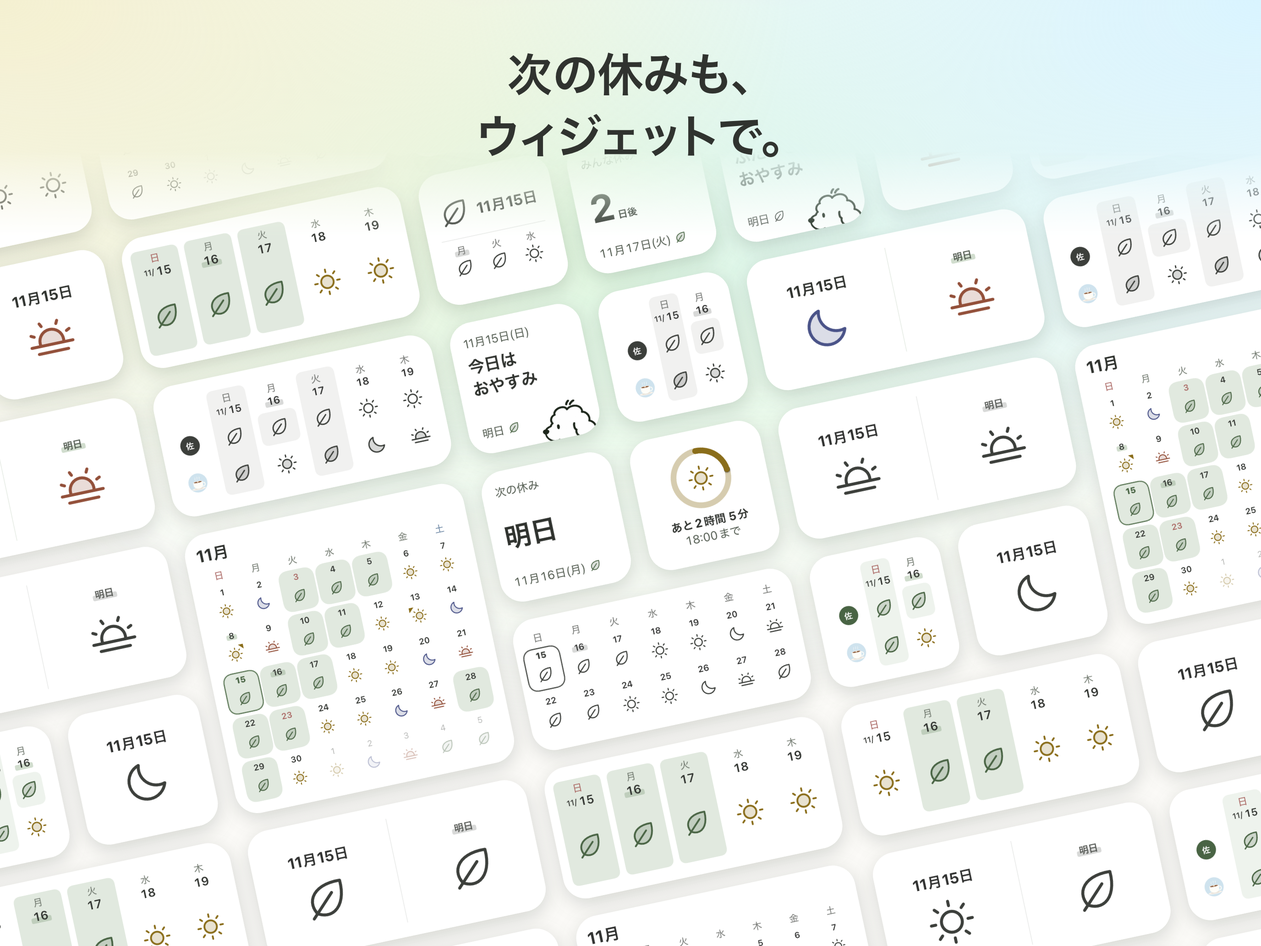
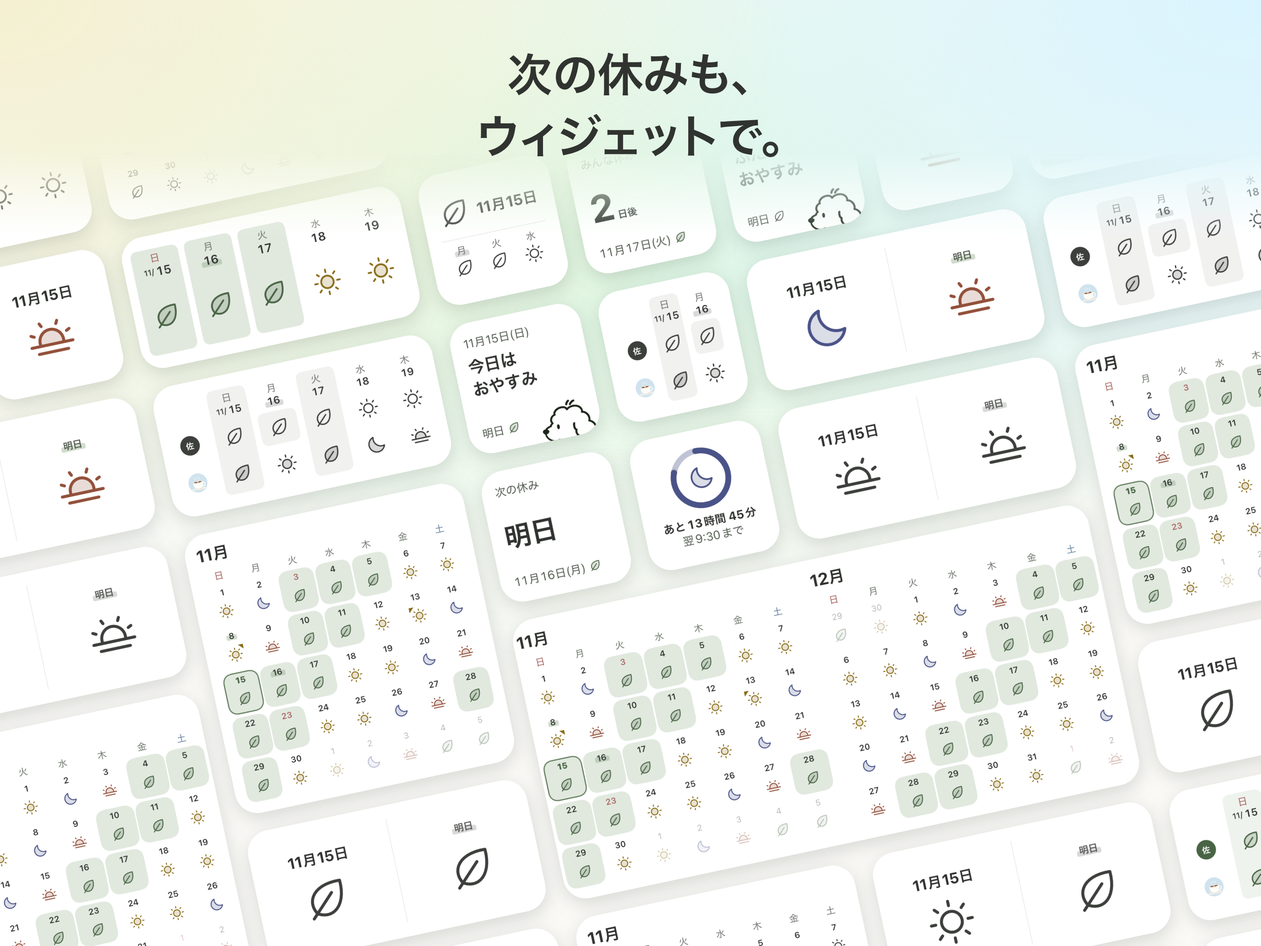
Tablet pictures: the iPad's extra large calendar on its wall, shot 1 with the pane's detail
The wall's widgets are now a store's: its own (`STORES[store].wall`)
over the shared wall's, those it lies over left out. An iPad's is
カレンダー's extra large (#1246), this month and the next, under the
widgets marked whole; the tests hold every store's wall to its grid,
its whole widgets and no picture beside itself across its copies.

The iPad's capture reads the extra large size, which iPadOS's gallery
alone leaves unnamed (#1251). Shot 1 on both tablets is photographed
again with the wide pane keeping the day's detail (#1250).

Changed region(s): [[0.4062, 0.5581, 0.875, 0.9302], [0.0, 0.7752, 0.1875, 1.0], [0.5312, 0.4651, 0.5938, 0.5891]]

diff --git a/apps/design/tests/store-screenshots.test.ts b/apps/design/tests/store-screenshots.test.ts
@@ -20,6 +20,7 @@ import {
   wallCornersOf,
   wallLieOf,
   wallOf,
+  wallPlacesOf,
 } from "@pochical/prototype/lib/store-shots";
 import type {
   Rect,
@@ -286,26 +287,28 @@ test("a callout's card leaves what is over its part in sight, and the phone's fo
   );
 });
 
-const tiles = wallOf(WALL_SHOT.tiles);
-
 // Which widgets there are to place is the captures' to say: the script
 // fails a wall whose widget is not among those photographed.
-test("the wall covers its grid, each widget in one of its looks", () => {
-  const cells = tiles.flatMap(({ column, columns, row, rows }) =>
-    Array.from(
-      { length: columns * rows },
-      (_, cell) =>
-        `${column + (cell % columns)} ${row + Math.floor(cell / columns)}`
-    )
-  );
-  expect(new Set(cells).size).toBe(cells.length);
-  expect(cells).toHaveLength(WALL.columns * WALL.rows);
-  for (const { column, columns, look, row, rows } of tiles) {
-    expect(look).toBeLessThan(WALL_SHOT.raw.length);
-    expect(column + columns).toBeLessThanOrEqual(WALL.columns);
-    expect(row + rows).toBeLessThanOrEqual(WALL.rows);
+test.each(storeIds)(
+  "%s's wall covers its grid, each widget in one of its looks",
+  (store) => {
+    const tiles = wallOf(wallPlacesOf(store));
+    const cells = tiles.flatMap(({ column, columns, row, rows }) =>
+      Array.from(
+        { length: columns * rows },
+        (_, cell) =>
+          `${column + (cell % columns)} ${row + Math.floor(cell / columns)}`
+      )
+    );
+    expect(new Set(cells).size).toBe(cells.length);
+    expect(cells).toHaveLength(WALL.columns * WALL.rows);
+    for (const { column, columns, look, row, rows } of tiles) {
+      expect(look).toBeLessThan(WALL_SHOT.raw.length);
+      expect(column + columns).toBeLessThanOrEqual(WALL.columns);
+      expect(row + rows).toBeLessThanOrEqual(WALL.rows);
+    }
   }
-});
+);
 
 // How many cells lie between two tiles: none for two side by side or
 // corner to corner.
@@ -317,40 +320,48 @@ const between = (a: WallTile, b: WallTile): number =>
     b.row - a.row - a.rows
   );
 
-test("no picture on the wall is beside itself, even corner to corner", () => {
-  for (const tile of tiles) {
-    for (const other of tiles) {
-      if (
-        other !== tile &&
-        other.file === tile.file &&
-        other.look === tile.look
-      ) {
-        expect(
-          between(tile, other),
-          `${tile.file} at ${tile.column}, ${tile.row}`
-        ).toBeGreaterThan(0);
+test.each(storeIds)(
+  "no picture on %s's wall is beside itself, even corner to corner, nor beside the next copy's",
+  (store) => {
+    const tiles = wallOf(wallPlacesOf(store), 3);
+    for (const tile of tiles) {
+      for (const other of tiles) {
+        if (
+          other !== tile &&
+          other.file === tile.file &&
+          other.look === tile.look
+        ) {
+          expect(
+            between(tile, other),
+            `${tile.file} at ${tile.column}, ${tile.row}`
+          ).toBeGreaterThan(0);
+        }
       }
     }
   }
-});
-
-// The widgets marked whole, where the eye lands first.
-const whole = WALL_SHOT.tiles.flatMap((place, index) =>
-  "whole" in place ? [index] : []
 );
 
+// The widgets marked whole on a store's wall, where the eye lands first.
+const wholeOf = (store: StoreId) =>
+  wallPlacesOf(store).flatMap((place, index) =>
+    "whole" in place ? [index] : []
+  );
+
 test("the widgets marked whole show whole in every store's picture, clear of the fade under its headline", () => {
-  expect(whole.map((index) => tiles[index]?.file)).toEqual([
-    "next-off-small.png",
-    "next-off-day-small.png",
-    "now-small.png",
-  ]);
-  for (const { height, widgetRow, width } of Object.values(STORES)) {
+  for (const store of storeIds) {
+    const { height, widgetRow, width } = STORES[store];
+    const places = wallPlacesOf(store);
+    const whole = wholeOf(store);
+    expect(whole.map((index) => places[index]?.file)).toEqual([
+      "next-off-small.png",
+      "next-off-day-small.png",
+      "now-small.png",
+    ]);
     // The wall side by side as often as covers the picture, the widgets
     // marked whole those of the copy in its middle.
     const lie = wallLieOf({ height, width });
-    const placed = wallOf(WALL_SHOT.tiles, lie.across);
-    const middle = ((lie.across - 1) / 2) * WALL_SHOT.tiles.length;
+    const placed = wallOf(places, lie.across);
+    const middle = ((lie.across - 1) / 2) * places.length;
     const corners = whole.flatMap((index) => {
       const tile = placed[middle + index];
       return tile ? wallCornersOf(tile, widgetRow, lie) : [];
@@ -408,10 +419,11 @@ test.each([...pictures])(
       ((across - clearing.middle[0]) / clearing.across) ** 2 +
         ((down - clearing.middle[1]) / clearing.down) ** 2 <
         1;
-    const placed = wallOf(WALL_SHOT.tiles, lie.across);
+    const places = wallPlacesOf(picture.store);
+    const placed = wallOf(places, lie.across);
     const copies = Array.from({ length: lie.across }, (_, copy) =>
-      whole.map((index) => {
-        const tile = placed[copy * WALL_SHOT.tiles.length + index];
+      wholeOf(picture.store).map((index) => {
+        const tile = placed[copy * places.length + index];
         return tile
           ? wallCornersOf(tile, STORES[picture.store].widgetRow, lie)
           : [];

diff --git a/packages/prototype/src/lib/store-shots.ts b/packages/prototype/src/lib/store-shots.ts
@@ -43,6 +43,7 @@ export const STORES = {
     corner: 4.25,
     height: 1920,
     screen: { height: 2424, width: 1080 },
+    wall: [],
     widgetRow: 202 / 179,
     width: 1080,
   },
@@ -51,6 +52,7 @@ export const STORES = {
     corner: 2,
     height: 1440,
     screen: { height: 1600, width: 2560 },
+    wall: [],
     widgetRow: 202 / 179,
     width: 2560,
   },
@@ -59,6 +61,7 @@ export const STORES = {
     corner: 9,
     height: 2622,
     screen: { height: 2868, width: 1320 },
+    wall: [],
     widgetRow: 1,
     width: 1206,
   },
@@ -67,6 +70,10 @@ export const STORES = {
     corner: 3.8,
     height: 2064,
     screen: { height: 2064, width: 2752 },
+    // An iPad's カレンダー in its extra large size, this month and the
+    // next side by side, under the widgets marked whole, where the
+    // phone's wall has three medium widgets and two small ones.
+    wall: [{ column: 2, file: "calendar-extra-large.png", look: 0, row: 5 }],
     widgetRow: 1,
     width: 2752,
   },
@@ -420,8 +427,9 @@ export const storeShotFile = (name: StoreShotName): string => {
 };
 
 // The sizes a widget on the wall comes in, by the cells of a Home Screen
-// it covers across and down.
+// it covers across and down: an iPad's extra large among them.
 const WIDGET_CELLS = {
+  "extra-large": { columns: 4, rows: 2 },
   large: { columns: 2, rows: 2 },
   medium: { columns: 2, rows: 1 },
   small: { columns: 1, rows: 1 },
@@ -432,12 +440,11 @@ type WidgetSize = keyof typeof WIDGET_CELLS;
 const isWidgetSize = (value: string | undefined): value is WidgetSize =>
   value !== undefined && Object.hasOwn(WIDGET_CELLS, value);
 
-// The cells a widget covers, by its size, the last word of its file's name.
+// The cells a widget covers, by its size, the end of its file's name.
 const cellsOf = (file: string) => {
-  const size = file
-    .replace(/\.png$/u, "")
-    .split("-")
-    .at(-1);
+  const size = Object.keys(WIDGET_CELLS).find((one) =>
+    file.endsWith(`-${one}.png`)
+  );
   return WIDGET_CELLS[isWidgetSize(size) ? size : "small"];
 };
 
@@ -628,6 +635,27 @@ export type WallTile = {
   look: number;
   row: number;
   rows: number;
+};
+
+// The wall's widgets in a store's picture: the store's own (its `wall`),
+// and every one of the shared wall's that none of them is placed over.
+export const wallPlacesOf = (store: StoreId): readonly WallPlace[] => {
+  const own = wallOf(STORES[store].wall);
+  const covered = (place: WallPlace) => {
+    const { column, row } = place;
+    const { columns, rows } = cellsOf(place.file);
+    return own.some(
+      (tile) =>
+        column < tile.column + tile.columns &&
+        tile.column < column + columns &&
+        row < tile.row + tile.rows &&
+        tile.row < row + rows
+    );
+  };
+  return [
+    ...WALL_SHOT.tiles.filter((place) => !covered(place)),
+    ...STORES[store].wall,
+  ];
 };
 
 // The wall as it is placed, `across` times side by side: each widget with

diff --git a/apps/design/src/routes/_tool/[_]render/store-shot.tsx b/apps/design/src/routes/_tool/[_]render/store-shot.tsx
@@ -16,6 +16,7 @@ import {
   WALL_SHOT,
   wallLieOf,
   wallOf,
+  wallPlacesOf,
 } from "@pochical/prototype/lib/store-shots";
 import type {
   CardPicture,
@@ -267,7 +268,7 @@ function StoreShotPage() {
   if (shot === undefined) {
     return <p>No shot is named {name}.</p>;
   }
-  const { corner, height, screen, widgetRow, width } = STORES[store];
+  const { corner, height, screen, width } = STORES[store];
   const pair = `${width > height ? PAIR.side : PAIR.upright}%`;
   return (
     <div
@@ -286,7 +287,7 @@ function StoreShotPage() {
         <Wall
           lie={wallLieOf({ height, width })}
           mask={`linear-gradient(to bottom, transparent calc(var(--headline) * 0.8), black calc(var(--headline) * ${WALL_SHAPE.clear}))`}
-          row={widgetRow}
+          store={store}
         />
       )}
       <h1
@@ -613,9 +614,18 @@ function Pieces({ pieces, tall }: { pieces: readonly Piece[]; tall: number }) {
 }
 
 // The wall's widgets where they are placed, each from the folder of its
-// look, lying in the picture as `lie` says and seen through `mask`. A cell
-// is `row` times as tall as it is wide.
-function Wall({ lie, mask, row }: { lie: WallLie; mask: string; row: number }) {
+// look, lying in the picture as `lie` says and seen through `mask`: those
+// of `store`'s picture, whose cells are as tall as its Home Screen's.
+function Wall({
+  lie,
+  mask,
+  store,
+}: {
+  lie: WallLie;
+  mask: string;
+  store: StoreId;
+}) {
+  const row = STORES[store].widgetRow;
   return (
     <div className={styles.wall} style={{ maskImage: mask }}>
       <div
@@ -627,7 +637,7 @@ function Wall({ lie, mask, row }: { lie: WallLie; mask: string; row: number }) {
           top: lie.middle[1],
         }}
       >
-        {wallOf(WALL_SHOT.tiles, lie.across).map((tile) => (
+        {wallOf(wallPlacesOf(store), lie.across).map((tile) => (
           <div
             className={styles.widget}
             key={`${tile.column} ${tile.row}`}
@@ -668,7 +678,7 @@ function WallPicturePage({ picture }: { picture: WallPicture }) {
             ? "none"
             : `radial-gradient(ellipse ${clear.across}px ${clear.down}px at ${clear.middle[0]}px ${clear.middle[1]}px, transparent ${clear.whole * 100}%, black)`
         }
-        row={STORES[store].widgetRow}
+        store={store}
       />
       {line !== undefined && (
         <h1

diff --git a/apps/ios/Pochical/PochicalUITests/StoreScreenshotTests.swift b/apps/ios/Pochical/PochicalUITests/StoreScreenshotTests.swift
@@ -726,7 +726,9 @@ final class StoreScreenshotTests: XCTestCase {
     "シンプル": "simple", "これから": "upcoming", "カレンダー": "calendar", "次の休み": "next-off",
     "いまのシフト": "now",
   ]
-  private static let widgetSizes = ["小": "small", "中": "medium", "大": "large"]
+  private static let widgetSizes = [
+    "小": "small", "中": "medium", "大": "large", "特大": "extra-large",
+  ]
   /// Whom a widget can be set to, of the seed's group: its first member,
   /// and for 次の休み the group itself. Each by the word its file takes,
   /// the choice as the widget's editing lists it, under its group, and
@@ -809,13 +811,16 @@ final class StoreScreenshotTests: XCTestCase {
         XCTWaiter().wait(for: [next], timeout: 5), .completed, "the gallery turns to \(turned + 1)")
     }
     let shown = springboard.buttons
-      .matching(NSPredicate(format: "label BEGINSWITH 'ポチカル, ' AND value BEGINSWITH 'ウィジェット, '"))
+      .matching(NSPredicate(format: "label BEGINSWITH 'ポチカル, ' AND value BEGINSWITH 'ウィジェット'"))
       .allElementsBoundByIndex.first(where: \.isHittable)
-    guard let shown, let size = (shown.value as? String)?.split(separator: ", ").last else {
+    guard let shown, let value = shown.value as? String else {
       XCTFail("page \(page) shows a widget")
       return ("", "")
     }
-    return (String(shown.label.dropFirst("ポチカル, ".count)), String(size))
+    // Its size after the word, which iPadOS leaves out for the extra
+    // large alone (#1251).
+    let size = value.split(separator: ", ").dropFirst().first.map(String.init) ?? "特大"
+    return (String(shown.label.dropFirst("ポチカル, ".count)), size)
   }
 
   /// Puts the widget the gallery shows on the Home Screen, and waits for

diff --git a/apps/design/scripts/store-images.ts b/apps/design/scripts/store-images.ts
@@ -22,6 +22,7 @@ import {
   storeShotFile,
   WALL_PICTURES,
   WALL_SHOT,
+  wallPlacesOf,
 } from "@pochical/prototype/lib/store-shots";
 import type { Rect, StoreId } from "@pochical/prototype/lib/store-shots";
 import {
@@ -53,7 +54,7 @@ const findScreens = (store: StoreId, shot: (typeof STORE_SHOTS)[number]) => {
       : [];
   const wall =
     shot.kind === "wall"
-      ? shot.tiles.map(({ file, look }) =>
+      ? wallPlacesOf(store).map(({ file, look }) =>
           path.join(shot.raw[look] ?? "", file)
         )
       : [];

diff --git a/AGENTS.md b/AGENTS.md
@@ -14,7 +14,7 @@ Pochical is a monorepo: native SwiftUI (`apps/ios`) and Jetpack Compose (`apps/a
   - ライセンス's list of libraries is generated by each app's build, never checked in (spec/calendar.md, ライセンス): on iOS by LicenseList's build plugin from the resolved Swift packages' checkouts (`PLL_SOURCE_PACKAGES_PATH` names them when `-clonedSourcePackagesDirPath` moves them, as CI's `ios` job does), on Android by AboutLibraries' Gradle plugin into each variant's `res/raw/aboutlibraries.json`, with what the app carries besides its dependencies in `apps/android/app/aboutlibraries/libraries`.
   - Icons: the marks' paths from Phosphor via `pnpm --dir design icon:marks`; the iOS app icons and the widgets' `PeekingPoodle` via `pnpm --dir packages/prototype icon:ios`, and Android's launcher icon (its `mipmap` layers and the background color) and the Play listing's 512-pixel icon (`apps/android/app/src/main/ic_launcher-playstore.png`) and the widgets' `widget_poodle` via `icon:android`, both painting with `scripts/app-icon.ts` as the site icon's `icon:site` does.
   - try's installable app (`apps/try/public/app`): the icons, iOS's launch images and the web app manifest via `pnpm --dir apps/try icon:app` (`scripts/app-assets.ts`), and the manifest's screenshots, the screens `src/lib/app-screenshots.ts` names, via `image:screens`, which photographs the app on a dev server of its own as apps/design's `image:share` photographs the share image, both through `@pochical/prototype`'s `scripts/photograph.ts`. A change to that list runs both.
-  - The stores' pictures (`store/screenshots/<store>`, Google Play's feature graphic, `store/feature-graphic.png`, and the App Store's product page header, `store/product-page-header.png`): the shots, their headlines and each store's size in `@pochical/prototype`'s `lib/store-shots.ts` → `ANDROID_SERIAL=emulator-<port> mise run store:screenshots`. It photographs the real apps' screens into `.build/store-screenshots/<store>`, under the same names on both platforms, each against a server it starts and `tools/store-screenshots/seed.ts` seeds with two groups made by one piece, the coworkers' and a group of friends, each person's photo one of the faces' drawings (`design/src/drawings`) (`store:shots:android`: `StoreScreenshots` on the running emulator `ANDROID_SERIAL` names, never a phone, the widgets drawn there by themselves from the app's own days; `store:shots:ios`: `StoreScreenshotTests` in a simulator of its own and no other, `pochical-store`, an iPhone 18 Pro Max, the run failing when a simulator of the name is another device, the widgets put on its Home Screen; and for a tablet's pictures the same shots on a tablet on its side, where its wide layouts show (#1226): `store:shots:ipad` in its own `pochical-store-ipad`, an iPad Pro 13-inch (M5), the tab bar at the top as the app opens, and `store:shots:android-tablet` on the running tablet's emulator `ANDROID_SERIAL` names, each failing on a device of the other kind, into `.build/store-screenshots/ipad` and `android-tablet`), then draws each on the site's sky under its headline (`store:images`: apps/design's `image:store`, which photographs `/_render/store-shot` as `image:share` does the share image, for each store whose screens are there). The seed runs beside the capture: it makes the groups, writes their invitations, and writes the coworkers' chat only once the person photographed has joined, so the chat says every joining above its lines, and more lines than a screen holds keep them out of the picture, among them two photographs sent at once (`tools/store-screenshots/photos`, whose README names where each is from; a JPEG put there under the same name is sent in its place); the capture reads the chat to its latest line, opens it again, and photographs it there. The status bar says 9:41 in every picture, whenever the run is, and the chat's lines the time they were written; Android's is SystemUI's demo, entered once the emulator is on its Wi-Fi, as one entered in the seconds after a boot shows a second Wi-Fi icon to its end. Every look is set through the app's own settings: a raw file or folder named `-sumi` is in black and white (テーマ 墨, シフトの色 ワントーン, シフトの見た目 線, 休みの見せ方 印だけ, 色をつける日 off; the month's own picture with 月と曜日 英語, the widgets 日本語), one named `-letters` has the shifts as letters (シフトの見た目 文字, in the テーマ the app starts in), the rest as the app starts. The wall of widgets is placed by hand (the shot's `tiles`: which widget, in which look, in which cell of `WALL`), from every kind at each size it has for a Home Screen, those that can be set to someone set to a person and to the group too, and those today's shift changes on each of the sample's (a day off, 日勤, 夜勤, 明け: the capture enters it for today in ポチポチ入力 and photographs them in both looks before it enters the next), in the app's look and in 墨: medium and large widgets carry it, small ones are its accents. 次の休み counting to a day off, 次の休み on a day off and いまのシフト are marked `whole` and stand together where the eye lands, whole in each store's picture and in what every picture drawn from the wall shows on every device; no picture is beside itself. Entering a shift takes a day's own hours off it (早出, 残業) and 夜勤 gives the day after its 明け, and nothing is put back: every picture of the month is taken before the widgets, ポチポチ入力's among them, whose days taken out are entered again by the tray's keys and the month checked to say what it did before; the widgets' shifts go in the order that leaves each the days it shows as the sample has them. いまのシフト draws its ring only while a shift is on, so after the widgets a run enters one of the sample's shifts that is on at that hour and photographs that widget again, in the app's look, once it says the shift is on (before 9:00 that shift is the day before's 夜勤, which the month's page has no day for on the 1st: the run is not started then, and says to run from 9:00). A widget is photographed once it says the days it is to show (iOS; Android draws it from what the app holds then), and a run fails when a widget asked for is not there, when the seed's last checks fail, when the port already has a server, or when the emulator's settings are not all put back. The friends' group is joined as まい with ひよこ picked for a face, in place of the drawing a new person is given at random, and the coworkers' as 佐藤, there alone. A shot of one screen may lift the part its headline is about (its `callout`): the capture measures that part by its element, and every piece of the screen that says something, into `<raw>.json` (on Android as Compose lays them out, the accessibility tree giving a button smaller than a finger the larger place it takes touches in), and the picture draws the part again, larger (as large as keeps a row as wide as the screen inside the picture and the card as far over the phone's foot as the phone is over the picture's, 1.35 times at most), on a card over the phone that starts where the part does and grows down from there, what leads to the part left in sight over it; a piece the card would lie over a part of, on any side, it takes in whole, so nothing shows cut beside it, and the part is drawn in the card's middle, whole lines of the screen with their own room. The friends' table lifts the days everyone is off, the chat its poll's line with the line that asks for it, 端末カレンダーに追加 its 自動で反映. The details' shot and the cares' are three tiles each, within where a phone is under the headline, the room they leave shared evenly between them up to the most a gap may be and the rest left over and under them alike, a tile a card of the picture's with room inside it, on the ground of what it holds: a part of a screen its platform's UI test cuts at whole rows, from the top of one of the screen's own pieces to the foot of another, as wide as the page or the month's week it is of (the screen on a phone), or pieces the page draws from the app's own marks, larger than a screen has them, with words and lines of the picture's that say what happens (the shot's `pieces`). Each tile holds only what makes its point. A part's file is named for what it is (`tile-<what>.png`), not for the shot it is in. The details', how a roster itself is: two weeks of 繰り返しを直す on a fixed cycle, a run's last step but one as it changes the job, to the ready-made 当番・非番・休み from next month's 1st, 当番 and 休み then named 当務 and 週休; the first week of a page of a シフトの期間 from the 15th under its heading, set in 設定 and put back; and a day of 早出 and one of 残業 with their marks' corners named, drawn. The cares', what the app does for the person: 夜勤's key pressed and the two days it fills, the second the app's doing, drawn; リマインド's reminder of the evening before, the next notification as its page draws it, before anything is changed; and グループの設定's rows of a group with an end, 忘年会, made in グループを作る with the day 終了日をつける offers, a run's very last step as it leaves a group. The same run draws the cards the site's top page ends on, the list `CARD_PICTURES`: each a picture of raw captures laid where the list says (the two looks of the month in their frames, 自動で反映 with its note and button, two weeks of 繰り返し, the evening before's reminder), into `packages/prototype/src/assets`. The wall is drawn in other pictures too, the list `WALL_PICTURES`: each its name, size, file, the store whose widgets it shows, where the wall lies in it (`lie`, as in a store's picture without), the line it carries (`line`, the wall clearing to the sky around it, none without) and the part of it every device shows (`safe`, which holds the line and the widgets marked `whole`, anywhere without). The App Store's product page header is the first: the wall across 3840×1646, the site's line beside the three widgets, both inside the art safe area measured from Apple's template. Google Play's feature graphic is the second, of Android's widgets: the wall across 1024×500 at twice the header's size for its width, so a widget's shapes read as narrow as a phone shows it, the line and the three widgets clear of 8 hundredths of each side, which Play cuts or covers in places. A picture on its side, a tablet's, is laid out in the units of an upright picture as tall (`unitOf`), so its headline and the room around its screen are as large for its height as a phone's, its tiles as wide as its screen at most, its wall laid side by side as often as covers it, the widgets marked `whole` those of the copy in the middle, and no callout: its screen is drawn large enough to read, and a part of it stands on a page beside others with no room to grow. A change to that page or to a headline runs `store:images` alone, the screens still in `.build`; a change to an app's screens runs its `store:shots:*` and `store:images`.
+  - The stores' pictures (`store/screenshots/<store>`, Google Play's feature graphic, `store/feature-graphic.png`, and the App Store's product page header, `store/product-page-header.png`): the shots, their headlines and each store's size in `@pochical/prototype`'s `lib/store-shots.ts` → `ANDROID_SERIAL=emulator-<port> mise run store:screenshots`. It photographs the real apps' screens into `.build/store-screenshots/<store>`, under the same names on both platforms, each against a server it starts and `tools/store-screenshots/seed.ts` seeds with two groups made by one piece, the coworkers' and a group of friends, each person's photo one of the faces' drawings (`design/src/drawings`) (`store:shots:android`: `StoreScreenshots` on the running emulator `ANDROID_SERIAL` names, never a phone, the widgets drawn there by themselves from the app's own days; `store:shots:ios`: `StoreScreenshotTests` in a simulator of its own and no other, `pochical-store`, an iPhone 18 Pro Max, the run failing when a simulator of the name is another device, the widgets put on its Home Screen; and for a tablet's pictures the same shots on a tablet on its side, where its wide layouts show (#1226): `store:shots:ipad` in its own `pochical-store-ipad`, an iPad Pro 13-inch (M5), the tab bar at the top as the app opens, and `store:shots:android-tablet` on the running tablet's emulator `ANDROID_SERIAL` names, each failing on a device of the other kind, into `.build/store-screenshots/ipad` and `android-tablet`), then draws each on the site's sky under its headline (`store:images`: apps/design's `image:store`, which photographs `/_render/store-shot` as `image:share` does the share image, for each store whose screens are there). The seed runs beside the capture: it makes the groups, writes their invitations, and writes the coworkers' chat only once the person photographed has joined, so the chat says every joining above its lines, and more lines than a screen holds keep them out of the picture, among them two photographs sent at once (`tools/store-screenshots/photos`, whose README names where each is from; a JPEG put there under the same name is sent in its place); the capture reads the chat to its latest line, opens it again, and photographs it there. The status bar says 9:41 in every picture, whenever the run is, and the chat's lines the time they were written; Android's is SystemUI's demo, entered once the emulator is on its Wi-Fi, as one entered in the seconds after a boot shows a second Wi-Fi icon to its end. Every look is set through the app's own settings: a raw file or folder named `-sumi` is in black and white (テーマ 墨, シフトの色 ワントーン, シフトの見た目 線, 休みの見せ方 印だけ, 色をつける日 off; the month's own picture with 月と曜日 英語, the widgets 日本語), one named `-letters` has the shifts as letters (シフトの見た目 文字, in the テーマ the app starts in), the rest as the app starts. The wall of widgets is placed by hand (the shot's `tiles`: which widget, in which look, in which cell of `WALL`; a store's own over them, its `wall`, an iPad's extra large カレンダー), from every kind at each size it has for a Home Screen, those that can be set to someone set to a person and to the group too, and those today's shift changes on each of the sample's (a day off, 日勤, 夜勤, 明け: the capture enters it for today in ポチポチ入力 and photographs them in both looks before it enters the next), in the app's look and in 墨: medium and large widgets carry it, small ones are its accents. 次の休み counting to a day off, 次の休み on a day off and いまのシフト are marked `whole` and stand together where the eye lands, whole in each store's picture and in what every picture drawn from the wall shows on every device; no picture is beside itself. Entering a shift takes a day's own hours off it (早出, 残業) and 夜勤 gives the day after its 明け, and nothing is put back: every picture of the month is taken before the widgets, ポチポチ入力's among them, whose days taken out are entered again by the tray's keys and the month checked to say what it did before; the widgets' shifts go in the order that leaves each the days it shows as the sample has them. いまのシフト draws its ring only while a shift is on, so after the widgets a run enters one of the sample's shifts that is on at that hour and photographs that widget again, in the app's look, once it says the shift is on (before 9:00 that shift is the day before's 夜勤, which the month's page has no day for on the 1st: the run is not started then, and says to run from 9:00). A widget is photographed once it says the days it is to show (iOS; Android draws it from what the app holds then), and a run fails when a widget asked for is not there, when the seed's last checks fail, when the port already has a server, or when the emulator's settings are not all put back. The friends' group is joined as まい with ひよこ picked for a face, in place of the drawing a new person is given at random, and the coworkers' as 佐藤, there alone. A shot of one screen may lift the part its headline is about (its `callout`): the capture measures that part by its element, and every piece of the screen that says something, into `<raw>.json` (on Android as Compose lays them out, the accessibility tree giving a button smaller than a finger the larger place it takes touches in), and the picture draws the part again, larger (as large as keeps a row as wide as the screen inside the picture and the card as far over the phone's foot as the phone is over the picture's, 1.35 times at most), on a card over the phone that starts where the part does and grows down from there, what leads to the part left in sight over it; a piece the card would lie over a part of, on any side, it takes in whole, so nothing shows cut beside it, and the part is drawn in the card's middle, whole lines of the screen with their own room. The friends' table lifts the days everyone is off, the chat its poll's line with the line that asks for it, 端末カレンダーに追加 its 自動で反映. The details' shot and the cares' are three tiles each, within where a phone is under the headline, the room they leave shared evenly between them up to the most a gap may be and the rest left over and under them alike, a tile a card of the picture's with room inside it, on the ground of what it holds: a part of a screen its platform's UI test cuts at whole rows, from the top of one of the screen's own pieces to the foot of another, as wide as the page or the month's week it is of (the screen on a phone), or pieces the page draws from the app's own marks, larger than a screen has them, with words and lines of the picture's that say what happens (the shot's `pieces`). Each tile holds only what makes its point. A part's file is named for what it is (`tile-<what>.png`), not for the shot it is in. The details', how a roster itself is: two weeks of 繰り返しを直す on a fixed cycle, a run's last step but one as it changes the job, to the ready-made 当番・非番・休み from next month's 1st, 当番 and 休み then named 当務 and 週休; the first week of a page of a シフトの期間 from the 15th under its heading, set in 設定 and put back; and a day of 早出 and one of 残業 with their marks' corners named, drawn. The cares', what the app does for the person: 夜勤's key pressed and the two days it fills, the second the app's doing, drawn; リマインド's reminder of the evening before, the next notification as its page draws it, before anything is changed; and グループの設定's rows of a group with an end, 忘年会, made in グループを作る with the day 終了日をつける offers, a run's very last step as it leaves a group. The same run draws the cards the site's top page ends on, the list `CARD_PICTURES`: each a picture of raw captures laid where the list says (the two looks of the month in their frames, 自動で反映 with its note and button, two weeks of 繰り返し, the evening before's reminder), into `packages/prototype/src/assets`. The wall is drawn in other pictures too, the list `WALL_PICTURES`: each its name, size, file, the store whose widgets it shows, where the wall lies in it (`lie`, as in a store's picture without), the line it carries (`line`, the wall clearing to the sky around it, none without) and the part of it every device shows (`safe`, which holds the line and the widgets marked `whole`, anywhere without). The App Store's product page header is the first: the wall across 3840×1646, the site's line beside the three widgets, both inside the art safe area measured from Apple's template. Google Play's feature graphic is the second, of Android's widgets: the wall across 1024×500 at twice the header's size for its width, so a widget's shapes read as narrow as a phone shows it, the line and the three widgets clear of 8 hundredths of each side, which Play cuts or covers in places. A picture on its side, a tablet's, is laid out in the units of an upright picture as tall (`unitOf`), so its headline and the room around its screen are as large for its height as a phone's, its tiles as wide as its screen at most, its wall laid side by side as often as covers it, the widgets marked `whole` those of the copy in the middle, and no callout: its screen is drawn large enough to read, and a part of it stands on a page beside others with no room to grow. A change to that page or to a headline runs `store:images` alone, the screens still in `.build`; a change to an app's screens runs its `store:shots:*` and `store:images`.
   - Workers' types: each Worker's `wrangler.jsonc` and the wrangler in `pnpm-lock.yaml`, with the workerd it pins → `mise run gen:worker-types`, which runs every workspace's `cf-typegen` (into `worker-configuration.d.ts` in `apps/server`, `apps/admin` and `apps/web`). A wrangler bump regenerates them too; CI runs `mise run worker-types:check`. A Worker with a `cf-typegen` and no secrets still declares `"secrets": { "required": [] }`, so its types never come from a computer's `.dev.vars` or `.env`.
   - SQL schemas are Drizzle and their migrations are generated, never written: D1 `apps/server/src/db/schema.ts` (`mise run db:generate -- --name <what>`; better-auth's tables via `mise run auth:schema` first), the Group DO `group-do-schema.ts` (`mise run group-do:generate`), the User DO `user-do-schema.ts` (`mise run user-do:generate`). CI runs `mise run db:check`.
 - The stores' listings are in `store/` (`store/README.md`): the texts of the App Store and Google Play, and the answers to their forms (`declarations.md`), entered into App Store Connect and Play Console by hand. `apps/design`'s tests hold each text to its store's limit; an answer changes in the PR that changes what the app does.
